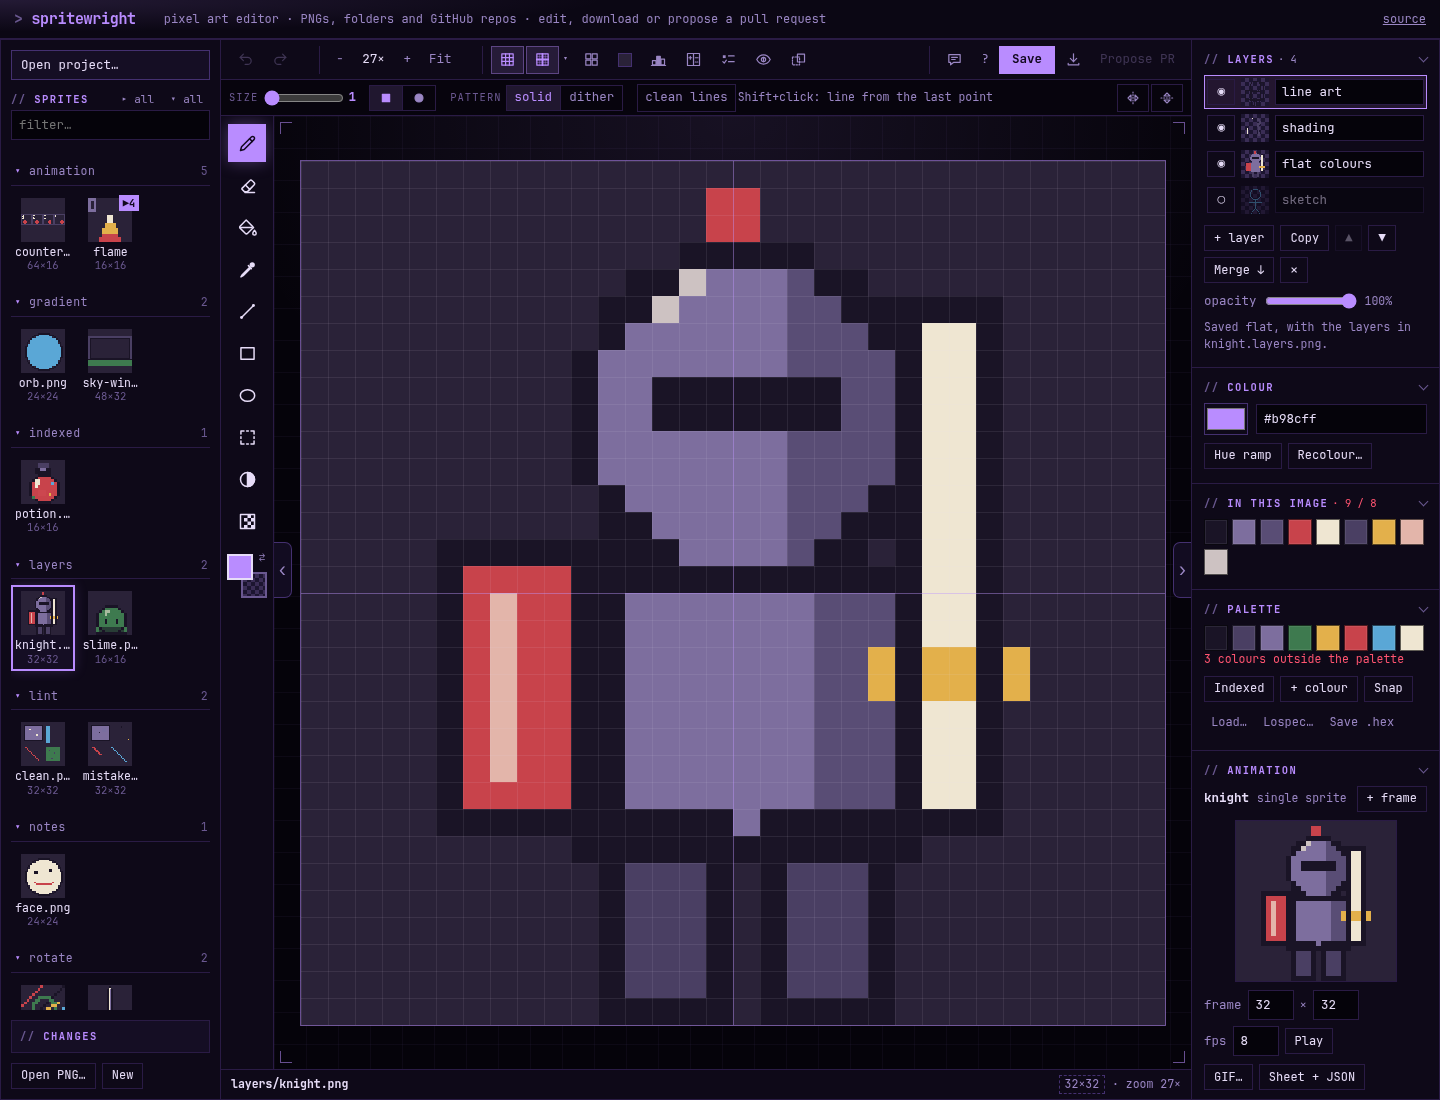
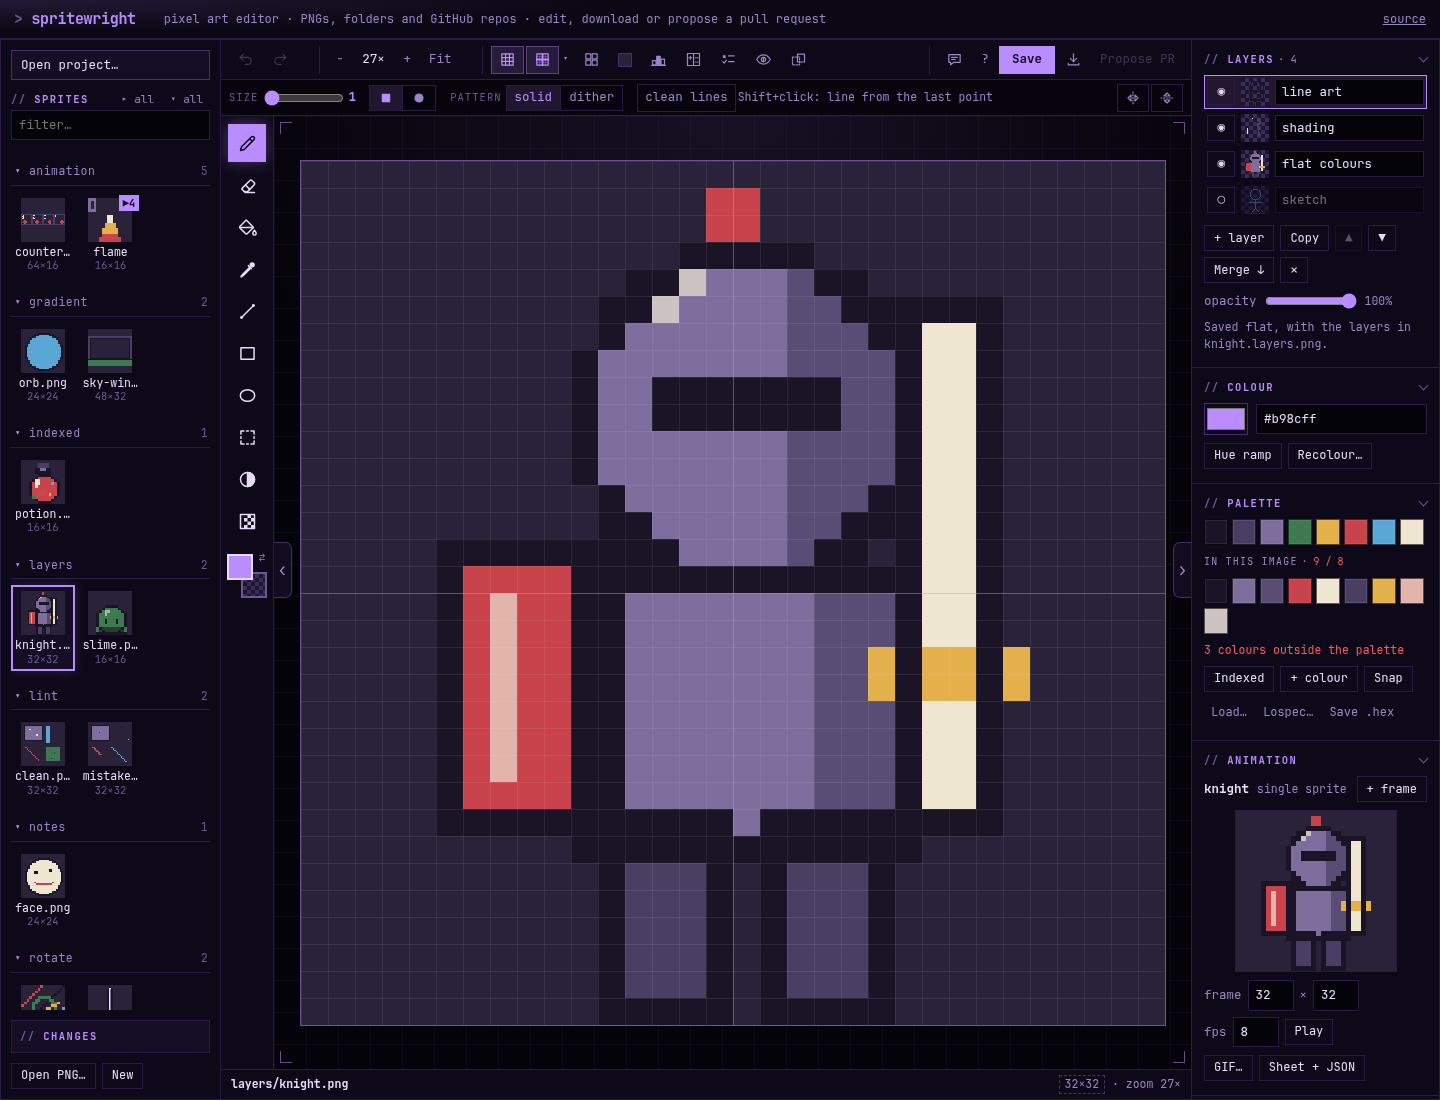
Right pane: In this image joins the Palette panel

Changed region(s): [[0.8125, 0.4636, 1.0, 1.0]]

diff --git a/spritewright.js b/spritewright.js
@@ -1254,6 +1254,7 @@
 .pf-cur{display:flex;gap:8px;align-items:center}.pf-cur input[type=color]{width:44px;height:32px;padding:0;border:1px solid var(--pf-line2);background:none;flex:none;cursor:pointer}
 .pf-ramp{display:flex;flex-direction:column;gap:6px}.pf-ramp[hidden]{display:none}.pf .pf-ramp .pf-sw button{width:34px;height:24px}
 .pf-row{display:flex;gap:6px;flex-wrap:wrap;align-items:center}
+.pf-sub{font-size:10px;letter-spacing:.12em;text-transform:uppercase;color:var(--pf-muted);margin-top:2px}
 .pf-ccount{font-weight:400;letter-spacing:0;text-transform:none;color:var(--pf-muted);margin-left:4px}.pf-ccount.over{color:var(--pf-bad)}
 .pf-ly-list{display:flex;flex-direction:column;gap:2px}.pf-ly{display:flex;gap:6px;align-items:center;padding:2px;border:1px solid transparent;cursor:pointer}.pf-ly.on{border-color:var(--pf-accent);background:rgba(224,140,255,.10)}
 .pf .pf-ly canvas{flex:none;width:28px;height:28px;image-rendering:pixelated;background:repeating-conic-gradient(#3a2d55 0 25%,#1c1530 0 50%) 0 0/8px 8px}.pf .pf-ly input{flex:1;min-width:0;min-height:26px;padding:3px 6px}.pf .pf-ly .pf-ly-eye{min-height:26px;width:28px;padding:0;flex:none}.pf .pf-ly.off canvas,.pf .pf-ly.off input{opacity:.45}
@@ -1657,8 +1658,8 @@
         <div class="pf-panel"><h4>Colour</h4><div class="pf-cur"><input type="color" class="pf-cpick" aria-label="Current colour"><input type="text" class="pf-chex" maxlength="9" aria-label="Hex colour"></div>
           <div class="pf-row"><button class="pf-ramp-btn" title="A 5-colour ramp around this colour: cool, darker shadows and warm highlights">Hue ramp</button><button class="pf-recolor" title="Change this colour everywhere in the image">Recolour…</button><input type="color" class="pf-recolor-in" aria-hidden="true" tabindex="-1" style="position:absolute;opacity:0;width:1px;height:1px;pointer-events:none"></div>
           <div class="pf-ramp" hidden><div class="pf-sw pf-ramp-colors"></div><button class="pf-ramp-add" title="Add these colours to the palette">+ add to palette</button></div></div>
-        <div class="pf-panel"><h4>In this image <span class="pf-ccount"></span></h4><div class="pf-sw pf-img-colors"></div></div>
-        <div class="pf-panel"><h4>Palette</h4><div class="pf-pal-wrap"><div class="pf-sw pf-pal-colors"></div><div class="pf-note pf-pal-empty">No palette yet: load one, or add colours.</div><div class="pf-note pf-off"></div></div>
+        <div class="pf-panel"><h4>Palette</h4><div class="pf-pal-wrap"><div class="pf-sw pf-pal-colors"></div><div class="pf-note pf-pal-empty">No palette yet: load one, or add colours.</div></div>
+          <div class="pf-sub">In this image<span class="pf-ccount"></span></div><div class="pf-sw pf-img-colors"></div><div class="pf-note pf-off"></div>
           <div class="pf-row"><button class="pf-pal-lock" title="Indexed: every colour you pick snaps to the palette, and double-clicking a palette colour changes it everywhere it is used in this image">Indexed</button><button class="pf-pal-add" title="Add the primary colour to the palette">+ colour</button><input type="color" class="pf-slot-in" aria-hidden="true" tabindex="-1" style="position:absolute;opacity:0;width:1px;height:1px;pointer-events:none"><button class="pf-snap" title="Move every pixel to its nearest palette colour">Snap</button></div>
           <div class="pf-row pf-quiet"><button class="pf-palload" title="Load a palette file (.hex, one colour per line)">Load…</button><button class="pf-lospec-btn" title="Load a palette from lospec.com by its name, e.g. endesga-32">Lospec…</button><button class="pf-palsave" title="Download this palette as a .hex file">Save .hex</button><input type="file" class="pf-palfile" accept=".hex,.txt,text/plain" hidden></div>
           <form class="pf-row pf-lospec" hidden><input type="text" class="pf-lospec-name" placeholder="endesga-32, or a lospec.com link" aria-label="Lospec palette name" autocomplete="off" style="flex:1;min-width:0"><button type="submit" class="primary">Load</button></form></div>

diff --git a/examples/playground/README.md b/examples/playground/README.md
@@ -20,7 +20,7 @@ Regenerate the art with `node scripts/make-playground.mjs`. The `spritewright.co
 | `rotate/diagonals.png` | Image › **Smooth ×2** | 32×32, with the diagonals and the circle smooth instead of 2×2 blocks. |
 | `animation/counter-sheet.png` | The **sheet** strip in the Animation panel: click a frame, ◀ ▶, **+ frame**, ✕; the **×n** badge; Play; **Sheet + JSON** | The digit moves with its frame, so reordering is obvious; the sheet grows and shrinks; a ×3 frame holds three ticks; the zip has the PNG and Aseprite-style JSON with durations. |
 | `animation/flame_0…3.png` | The family strip, ×n badges, **Sheet + JSON** | The numbered files pack into one 64×16 row. |
-| `indexed/potion.png` | Palette › **Indexed**; **Snap** | *In this image* shows 10 colours of 8 (over the budget, in red); two colours are a few values off the palette. With Indexed on, a picked colour snaps to the palette; double-click a palette colour to change it everywhere. |
+| `indexed/potion.png` | Palette › **Indexed**; **Snap** | In the Palette panel, *In this image* shows 10 colours of 8 (over the budget, in red); two colours are a few values off the palette. With Indexed on, a picked colour snaps to the palette; double-click a palette colour to change it everywhere. |
 | `notes/face.png` | Notes › **+ note**, click the right eye | A numbered pin on the eye (the click draws nothing), the text in the Notes panel, and a *Notes* section in the next pull request. |
 | `layers/slime.png` | The **Layers** panel: hide *shading*, drag its opacity, select *line art* and draw; **Merge ↓**; Save | Three layers (colour, shading at 60 %, line art) and no separate sprite for `slime.layers.png`. Drawing touches only the highlighted layer. Save rewrites both files (`git checkout` the folder to reset); merged down to one layer, Save deletes `slime.layers.png`. |
 | `layers/knight.png` | The **Layers** panel: show the hidden *sketch*, hide *line art*, move *shading* up and down, **Copy** a layer, rename one; Ctrl+Z through it all | Four layers as an artist keeps them: a hidden rough sketch, flat colours, shading at 70 %, line art on top. The canvas and the Animation panel show the merged picture; the knight's own PNG only changes when you Save. |
